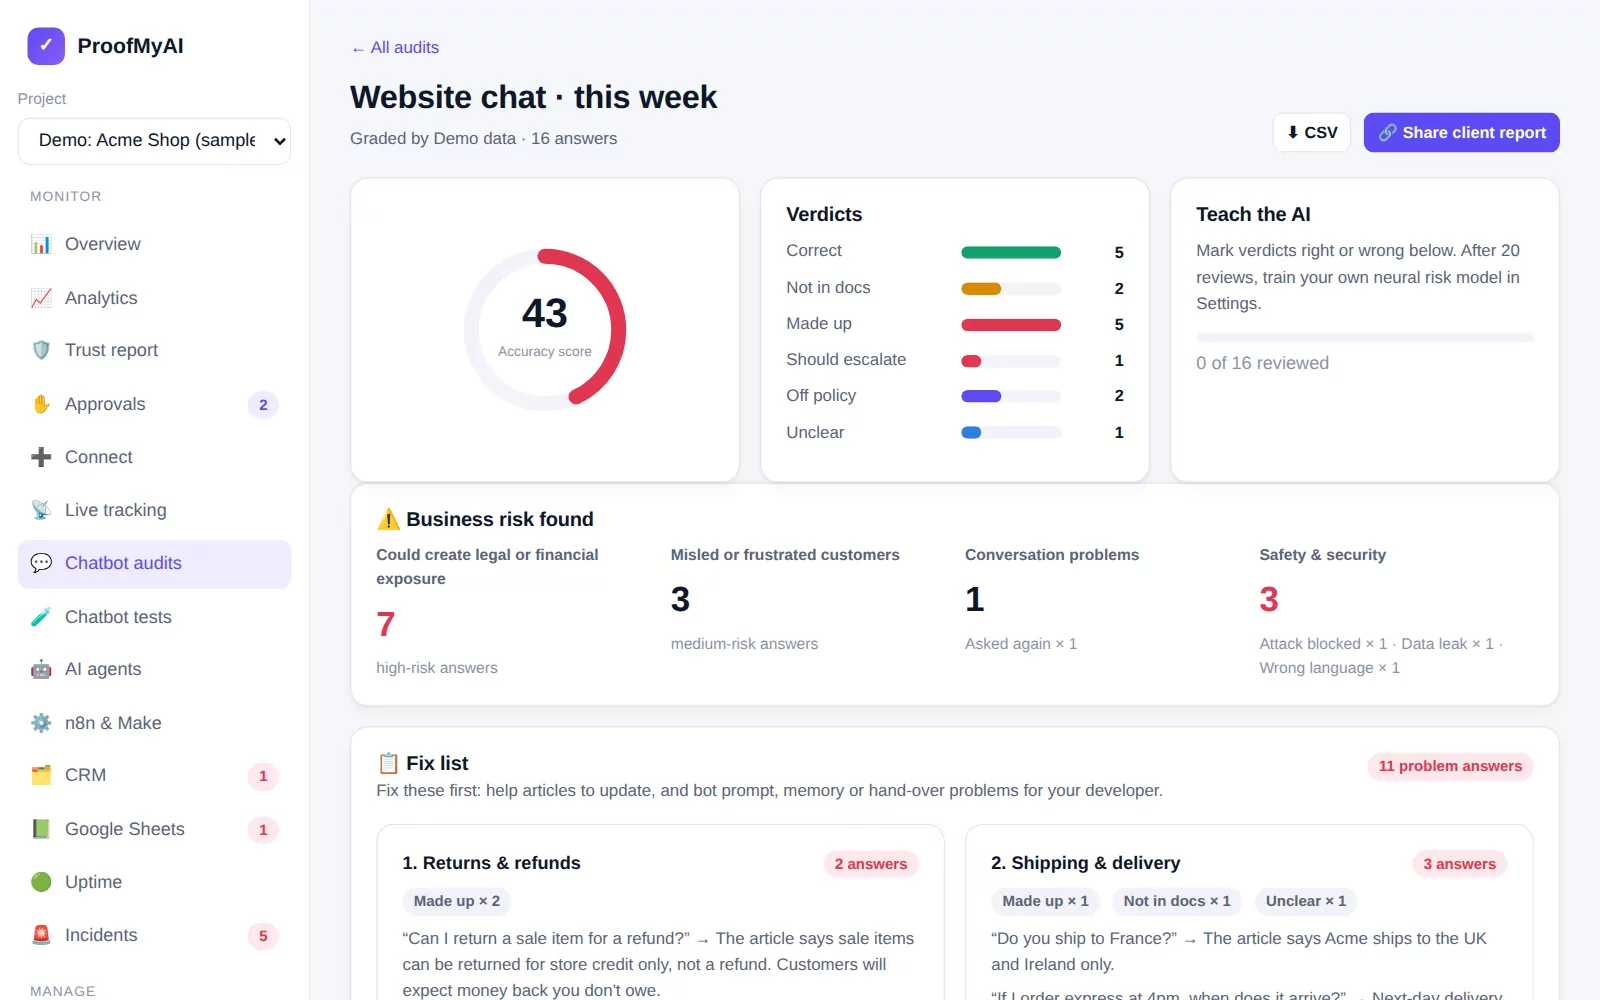
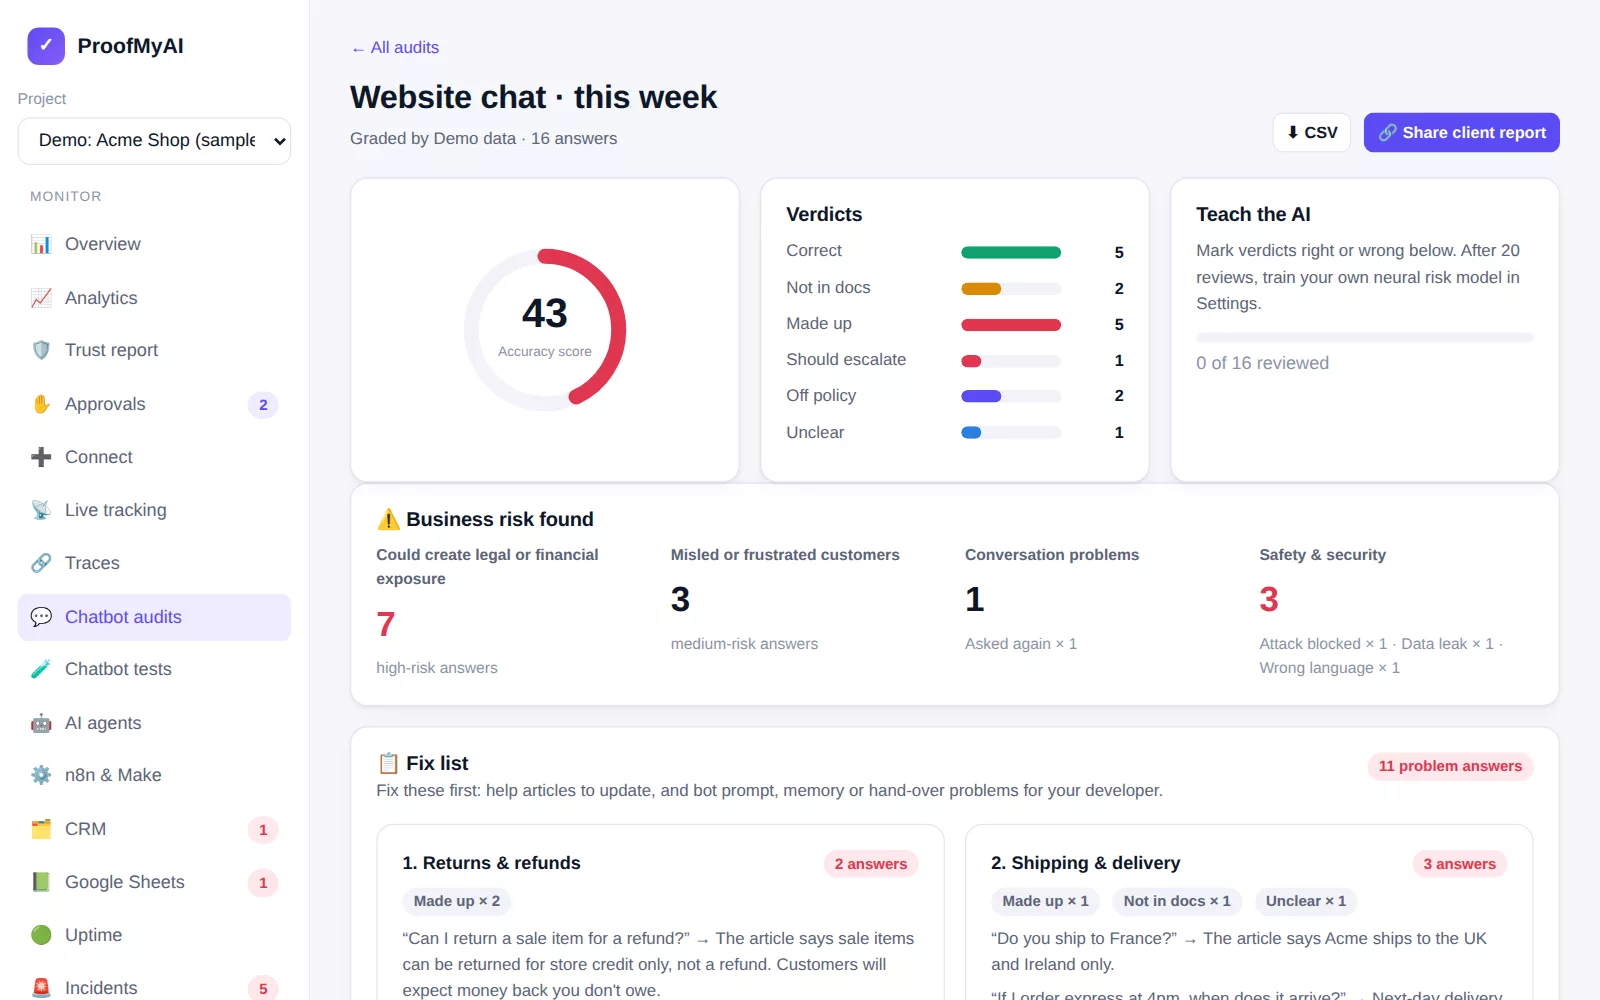
Website refresh: Watches and Traces in the tour, new feature cards, all tour screenshots recaptured
- Homepage: feature cards for plain-English watches, step-by-step traces and checkable accuracy; tour tabs for Watches and Traces
- Demo project now includes six plain-English watches so every Watch box shows real examples
- Traces added to the app sidebar; pending approvals show 'Waiting for a person' on the timeline; '1 step' grammar
- Watch descriptions read 'in an hour' / 'in 2 days'
- All 12 tour screenshots recaptured from the current app

Claude-Session: https://claude.ai/code/session_01XDATopjHq223tvmbk59YEt

diff --git a/src/app/page.tsx b/src/app/page.tsx
@@ -18,6 +18,9 @@ const FEATURES = [
   { icon: "🧪", title: "Nightly bot tests", text: "AI writes test questions from your help docs and past mistakes, or add your own. ProofMyAI asks your bot every night and alerts you the moment an answer gets worse." },
   { icon: "🤖", title: "AI agent monitoring", text: "Send each agent run with one HTTP call. Catch loops, tool errors, runaway costs, empty outputs and answers the tools never supported." },
   { icon: "⚙", title: "n8n & Make monitoring", text: "Connect n8n or Make in two minutes. Get alerted on failures, silent failures (success with zero output), stuck runs, workflows switched off or stopped, error spikes, sudden drops in output, and an expired API key." },
+  { icon: "🔔", title: "Watch for anything, in your own words", text: "Type what you care about, like \"tell me if the Order sync workflow runs fewer than 10 times a day\" or \"alert me for any refund over £200\". ProofMyAI shows how it understood you, how often it would have alerted last week, then watches and notifies you." },
+  { icon: "🔍", title: "Step-by-step traces", text: "Follow one request from chatbot reply to agent, workflow, approval and result check on one timeline, with the first step that broke marked. Simulate a failure in one click to test your alerts." },
+  { icon: "🎯", title: "Accuracy you can check", text: "Every verdict quotes the exact sentence it is based on. Our test cases and results are public on the benchmark page, so you can check the numbers yourself." },
   { icon: "✨", title: "Fix with AI, not just a score", text: "Problems are grouped by the help article that caused them. One click writes the corrected article and a safe system prompt for your bot." },
   { icon: "📈", title: "Chatbot analytics", text: "See what customers ask about, accuracy per topic, resolution and escalation rates, response times, 👍/👎 satisfaction and the questions your help docs don't answer yet." },
   { icon: "📡", title: "Live tracking", text: "Chatbot answers, agent runs and webhook events are checked within seconds; n8n/Make, Google Sheets and CRMs are read every 15 minutes (or instantly with a webhook). Each connection shows when data last arrived and when the next check is due." },
@@ -43,6 +46,8 @@ const TOUR: TourTab[] = [
   { id: "trust", name: "Trust report", subtitle: "Topic by topic: where your AI can decide alone, where to spot-check and where a person must approve.", img: "/tour/trust.webp", alt: "AI trust report: trust score 85, 44% of decisions can be made alone, recommendations per topic" },
   { id: "approvals", name: "Approvals", subtitle: "Agents prepare refunds, payments and emails. You approve the risky ones with one click.", img: "/tour/approvals.webp", alt: "Approvals inbox with a refund and an invoice payment waiting for one-click approval" },
   { id: "crm", name: "CRM", subtitle: "HubSpot, Salesforce, Pipedrive, Zoho, GoHighLevel and more: duplicates, missing fields, leads not followed up.", img: "/tour/crm.webp", alt: "CRM monitoring for HubSpot showing duplicates and leads not followed up" },
+  { id: "watches", name: "Watches", subtitle: "Write what to watch in plain English. ProofMyAI shows how it understood you and alerts you when it happens.", img: "/tour/watches.webp", alt: "Watch for anything box on the n8n page with plain-English watches, how each was understood and when it last alerted" },
+  { id: "traces", name: "Traces", subtitle: "One request on one timeline, from chatbot to agent, workflow and approval, with the first broken step marked.", img: "/tour/traces.webp", alt: "Trace timeline showing each agent step and the first step that went wrong" },
   { id: "live", name: "Live tracking", subtitle: "Answers, agent runs and webhooks checked within seconds; n8n/Make, Sheets and CRMs every 15 minutes, with each connection's freshness shown.", img: "/tour/live.webp", alt: "Live tracking with status cards for chatbots, agents, n8n, Google Sheets and CRM, and a live feed" },
   { id: "connect", name: "Connect", subtitle: "Intercom, WhatsApp, Zendesk, n8n, Make or one HTTP call. Each takes 2 to 5 minutes.", img: "/tour/connect.webp", alt: "Connect page with no-code options for chatbots, AI agents and workflows" },
 ];

diff --git a/src/lib/demo.ts b/src/lib/demo.ts
@@ -6,6 +6,8 @@ import type { Severity, Verdict } from "./judge/types";
 import { newApiKey } from "./projects";
 import { recordWorkflowRun } from "./workflows/monitor";
 import { topicFor } from "./topics";
+import { parseWatchPrompt } from "./watchparse";
+import { addWatch, type WatchModule } from "./watches";
 
 /**
  * "Try with demo data": a separate, clearly-labelled sample project (a fictional online shop) filled with
@@ -232,6 +234,21 @@ export async function createDemoProject(userId: number): Promise<number> {
         error_message: fail ? "OpenAI node: 429 Rate limit reached. Retry after 20s." : null,
       });
     }
+  }
+
+  // Watches written in plain English, so the "Watch for anything" boxes show real examples.
+  for (const [module, prompt, fired, minsAgo] of [
+    ["workflows", "Tell me when the Review replies workflow fails", 2, 2 * 1440 - 180],
+    ["workflows", "Alert me if the New Shopify order workflow hasn't run for 2 days", 0, 0],
+    ["agents", "Alert me if any agent run costs more than $0.01", 1, 3 * 1440],
+    ["chatbot", "Tell me whenever an answer mentions a refund", 3, 95],
+    ["approvals", "Alert me for any refund over 50", 1, 25],
+    ["crm", "Tell me when a new lead has no email", 0, 0],
+  ] as [WatchModule, string, number, number][]) {
+    const spec = parseWatchPrompt(module, prompt);
+    if (!spec) continue;
+    const id = addWatch(projectId, module, prompt, spec, new Date(Date.now() - 14 * 86400000));
+    if (fired) run("UPDATE watches SET fired_count = ?, last_fired_at = ? WHERE id = ?", fired, new Date(Date.now() - minsAgo * 60000).toISOString(), id);
   }
   return projectId;
 }

diff --git a/src/app/app/p/[id]/traces/page.tsx b/src/app/app/p/[id]/traces/page.tsx
@@ -34,14 +34,14 @@ export default async function TracesPage({ params, searchParams }: { params: Pro
 
       {t ? (
         <div className="card">
-          <div className="card-head"><div><h3>🔗 {t}</h3><span className="sub">{events.length} steps{firstBad >= 0 ? ` · first problem at step ${firstBad + 1}` : events.length ? " · no problems" : ""}</span></div></div>
+          <div className="card-head"><div><h3>🔗 {t}</h3><span className="sub">{events.length} step{events.length === 1 ? "" : "s"}{firstBad >= 0 ? ` · first problem at step ${firstBad + 1}` : events.length ? " · no problems" : ""}</span></div></div>
           {events.length ? (
             <ol className="trace-timeline">
               {events.map((e, i) => (
                 <li key={i} className={e.ok ? "" : "bad"}>
                   <div className="row" style={{ gap: 8, flexWrap: "wrap" }}>
                     <span>{ICON[e.source]} <strong>{NAME[e.source]}</strong></span>
-                    <Badge tone={e.ok ? "ok" : "bad"}>{e.ok ? "OK" : i === firstBad ? "First problem" : "Problem"}</Badge>
+                    {e.ok && e.title.startsWith("Waiting for approval") ? <Badge tone="warn">Waiting for a person</Badge> : <Badge tone={e.ok ? "ok" : "bad"}>{e.ok ? "OK" : i === firstBad ? "First problem" : "Problem"}</Badge>}
                     <span className="sub">{new Date(e.at).toISOString().replace("T", " ").slice(0, 19)} UTC</span>
                   </div>
                   <div>{e.title}</div>

diff --git a/src/lib/watchparse.ts b/src/lib/watchparse.ts
@@ -16,9 +16,10 @@ export function describeSpec(module: WatchModule, spec: WatchSpec): string {
   const what = `${src.label}${conds.length ? ` where ${conds.join(" and ")}` : ""}`;
   const sev = spec.severity === "high" ? " (high priority)" : spec.severity === "low" ? " (low priority)" : "";
   if (spec.kind === "each") return `Alert on every one of the ${what}${sev}.`;
-  const win = windowLabel(spec.window_minutes ?? 60);
-  if (spec.kind === "below" && spec.threshold === 1) return `Alert if there are no ${what} in a ${win}${sev}.`;
-  return `Alert if there are ${spec.kind === "above" ? "more than" : "fewer than"} ${spec.threshold} ${what} in a ${win}${sev}.`;
+  const label = windowLabel(spec.window_minutes ?? 60);
+  const win = /^\d/.test(label) ? label : label === "hour" ? "an hour" : `a ${label}`;
+  if (spec.kind === "below" && spec.threshold === 1) return `Alert if there are no ${what} in ${win}${sev}.`;
+  return `Alert if there are ${spec.kind === "above" ? "more than" : "fewer than"} ${spec.threshold} ${what} in ${win}${sev}.`;
 }
 
 const UNIT_MIN: Record<string, number> = { minute: 1, min: 1, mins: 1, minutes: 1, hour: 60, hr: 60, hrs: 60, hours: 60, day: 1440, days: 1440, week: 10080, weeks: 10080 };

diff --git a/src/app/app/p/[id]/layout.tsx b/src/app/app/p/[id]/layout.tsx
@@ -23,6 +23,7 @@ export default async function ProjectLayout({ children, params }: { children: Re
     { href: `${base}/approvals`, label: "Approvals", icon: "✋", badge: get<{ n: number }>("SELECT COUNT(*) AS n FROM approvals WHERE project_id = ? AND status = 'pending'", project.id)?.n ?? 0, badgeTone: "brand" },
     ...(role === "viewer" ? [] : [{ href: `${base}/connect`, label: "Connect", icon: "➕" }]),
     { href: `${base}/live`, label: "Live tracking", icon: "📡" },
+    { href: `${base}/traces`, label: "Traces", icon: "🔗" },
     { href: `${base}/chatbot`, label: "Chatbot audits", icon: "💬" },
     { href: `${base}/tests`, label: "Chatbot tests", icon: "🧪", badge: get<{ n: number }>("SELECT COUNT(*) AS n FROM test_suggestions WHERE project_id = ?", project.id)?.n ?? 0, badgeTone: "brand" },
     { href: `${base}/agents`, label: "AI agents", icon: "🤖" },

diff --git a/tests/watches.test.ts b/tests/watches.test.ts
@@ -106,3 +106,11 @@ describe("watches fire and resolve", () => {
     expect(incidents()[0].detail).toContain("Agent “Researcher”, success, $2.5000, 3 steps");
   });
 });
+
+describe("plain-English description grammar", () => {
+  it("says 'in an hour' and 'in 2 days', and keeps the workflow name", () => {
+    expect(parse("workflows", "Alert me if more than 3 workflows fail in an hour")?.summary).toContain("in an hour");
+    const s = parse("workflows", "Alert me if the New Shopify order workflow hasn't run for 2 days")!;
+    expect(s.summary).toBe("Alert if there are no n8n, Make and webhook workflow runs where workflow name contains “New Shopify order” in 2 days (high priority).");
+  });
+});
